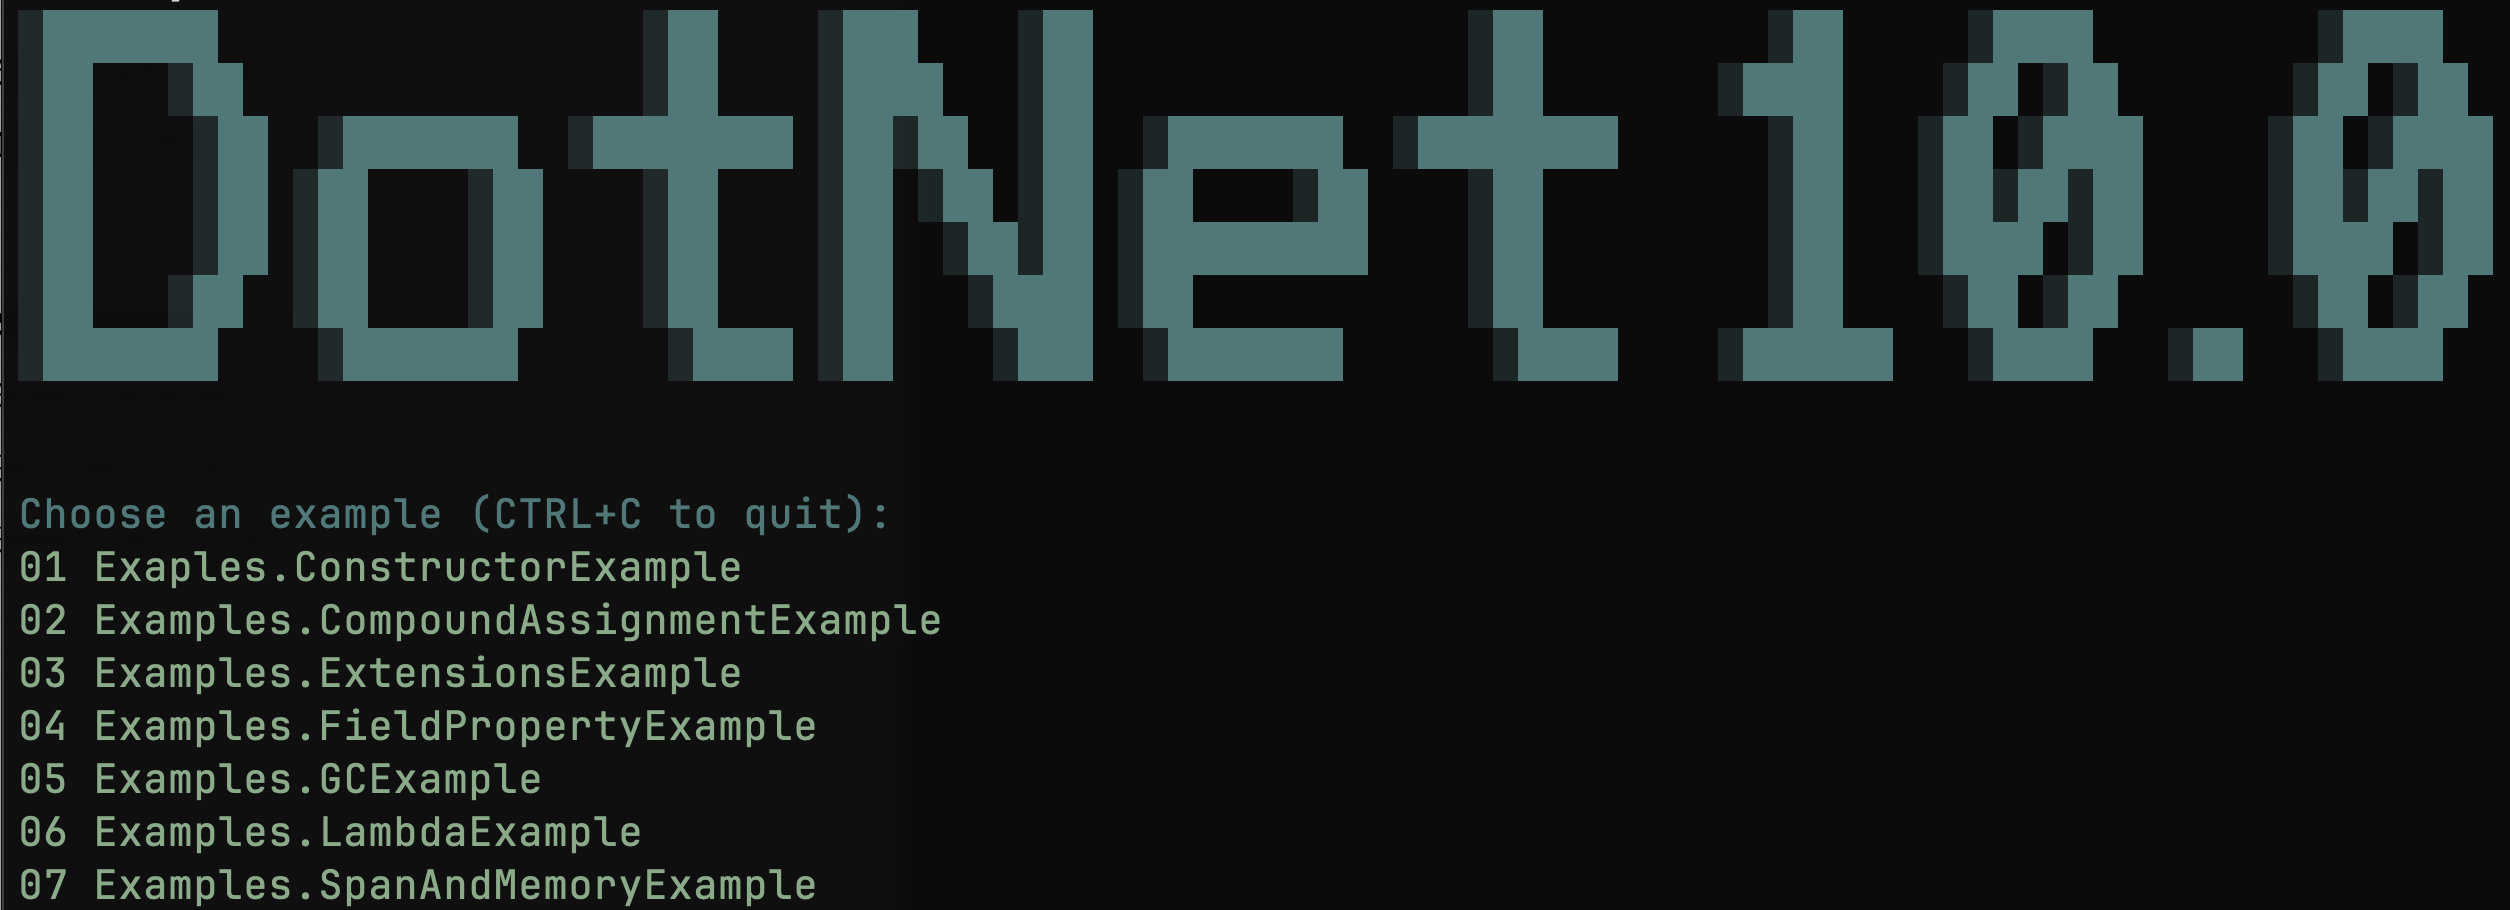
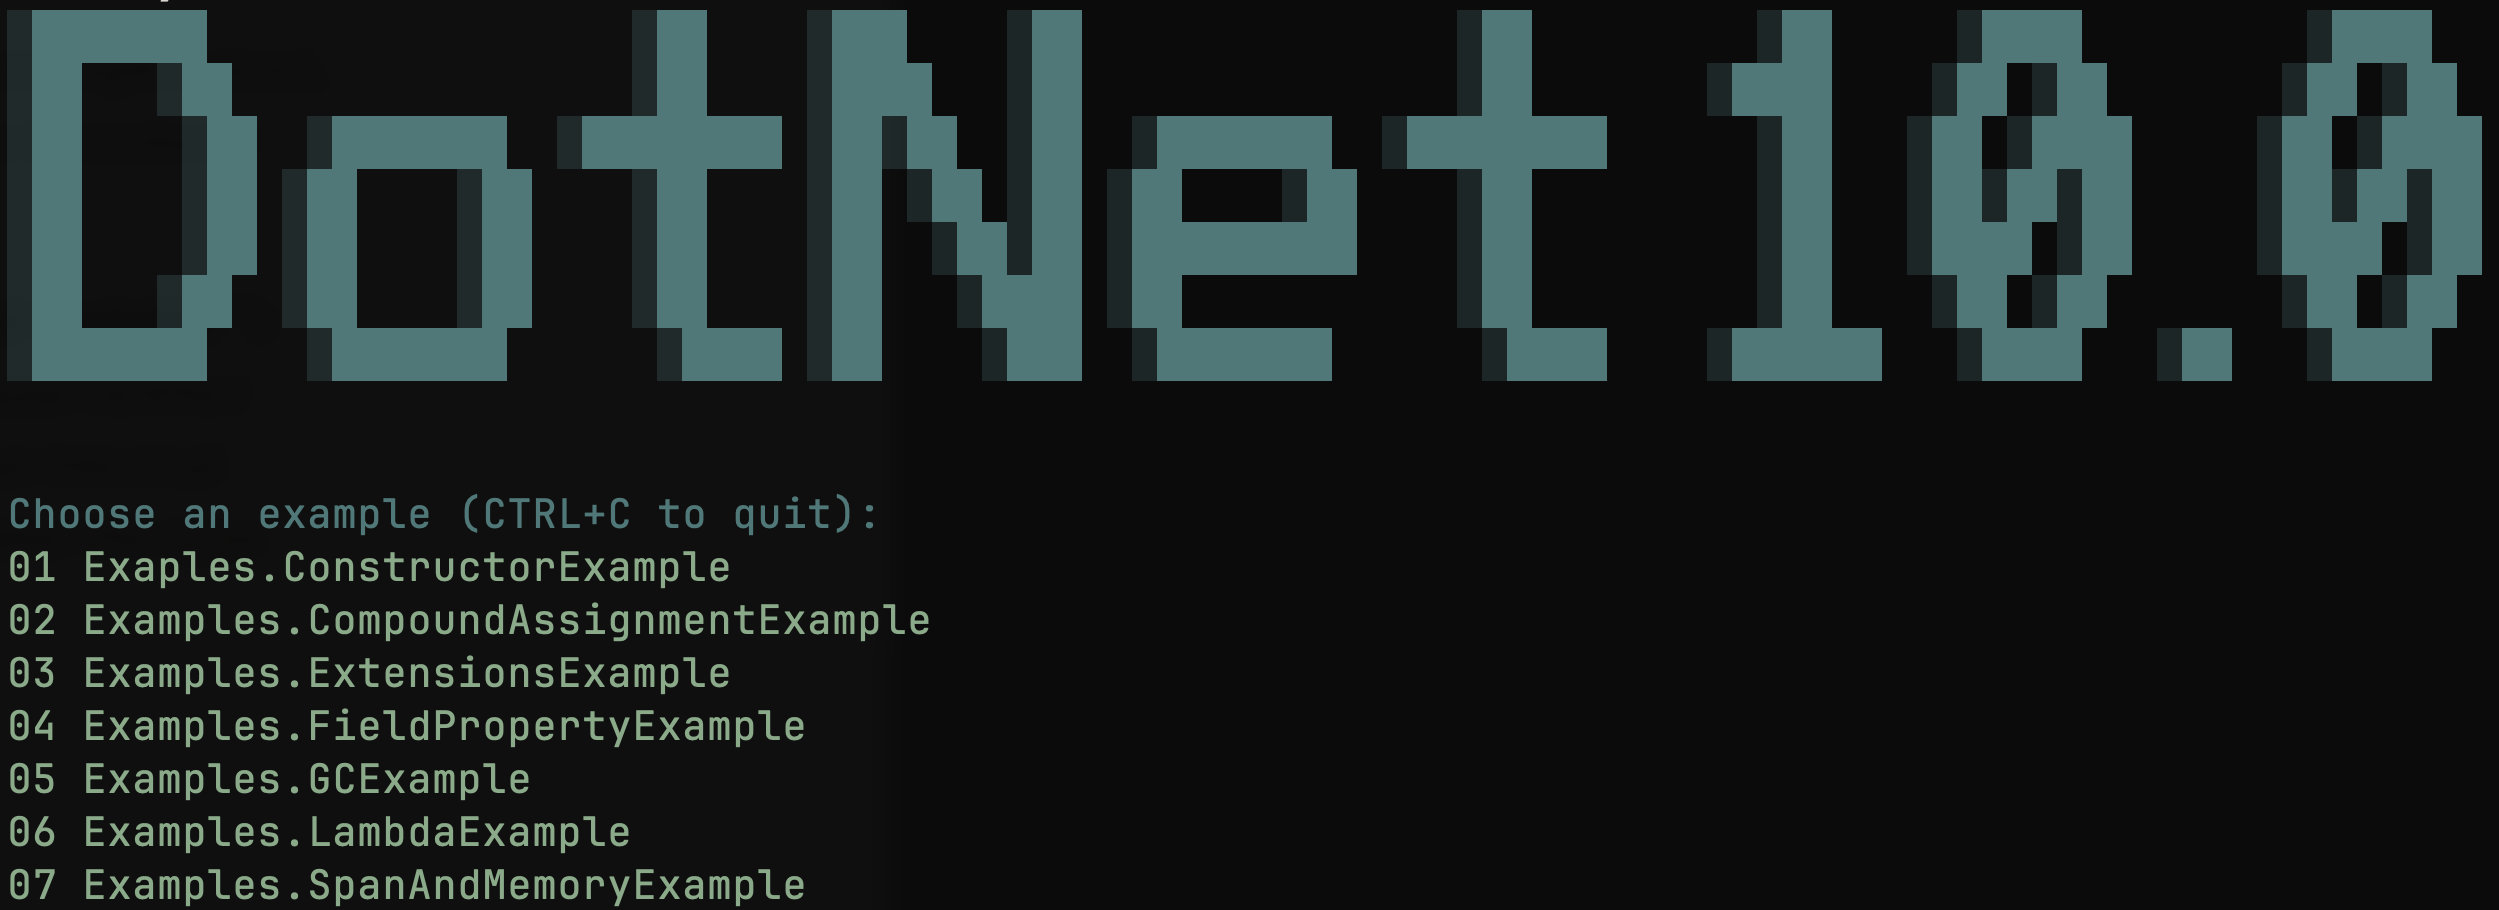
fix typo

diff --git a/Implementations/MenuRunner.cs b/Implementations/MenuRunner.cs
@@ -29,7 +29,12 @@ public class MenuRunner(IEnumerable<IExample> examples) : IMenuRunner
             if (keyDict.ContainsKey(key))
             {
                 Console.Clear();
+
                 var example = ex[keyDict[key]];
+                var source = example.SourceCode;
+                Console.WriteLineInformation(source);
+                Console.WriteLine();
+
                 await example.RunExampleAsync();
                 Console.WriteLine();
             }

diff --git a/Examples/ConstructorExample.cs b/Examples/ConstructorExample.cs
@@ -2,7 +2,7 @@ using System;
 using System.Threading.Tasks;
 using Abstractions;
 
-namespace Exaples;
+namespace Examples;
 
 public partial class ConstructorExample
 {
